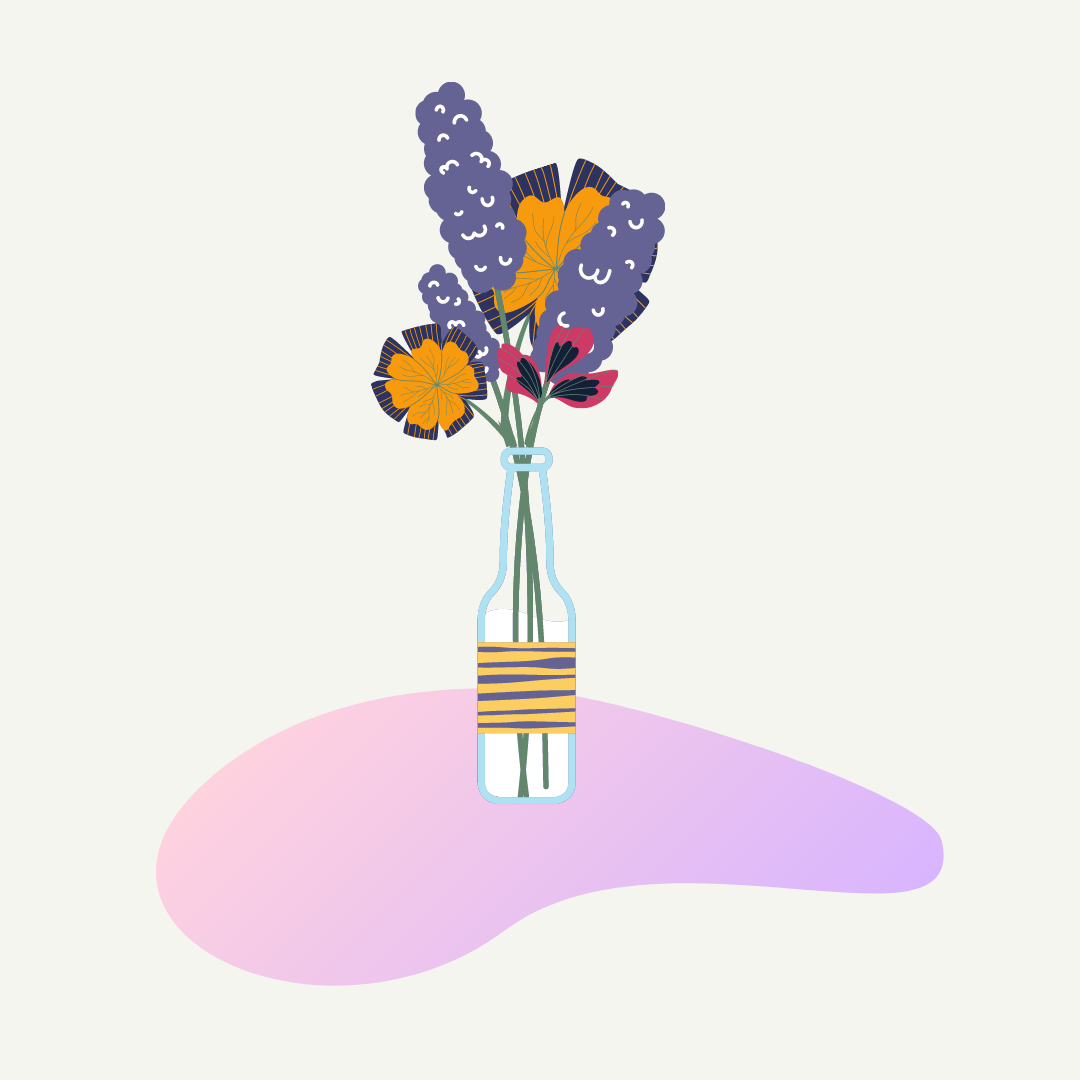
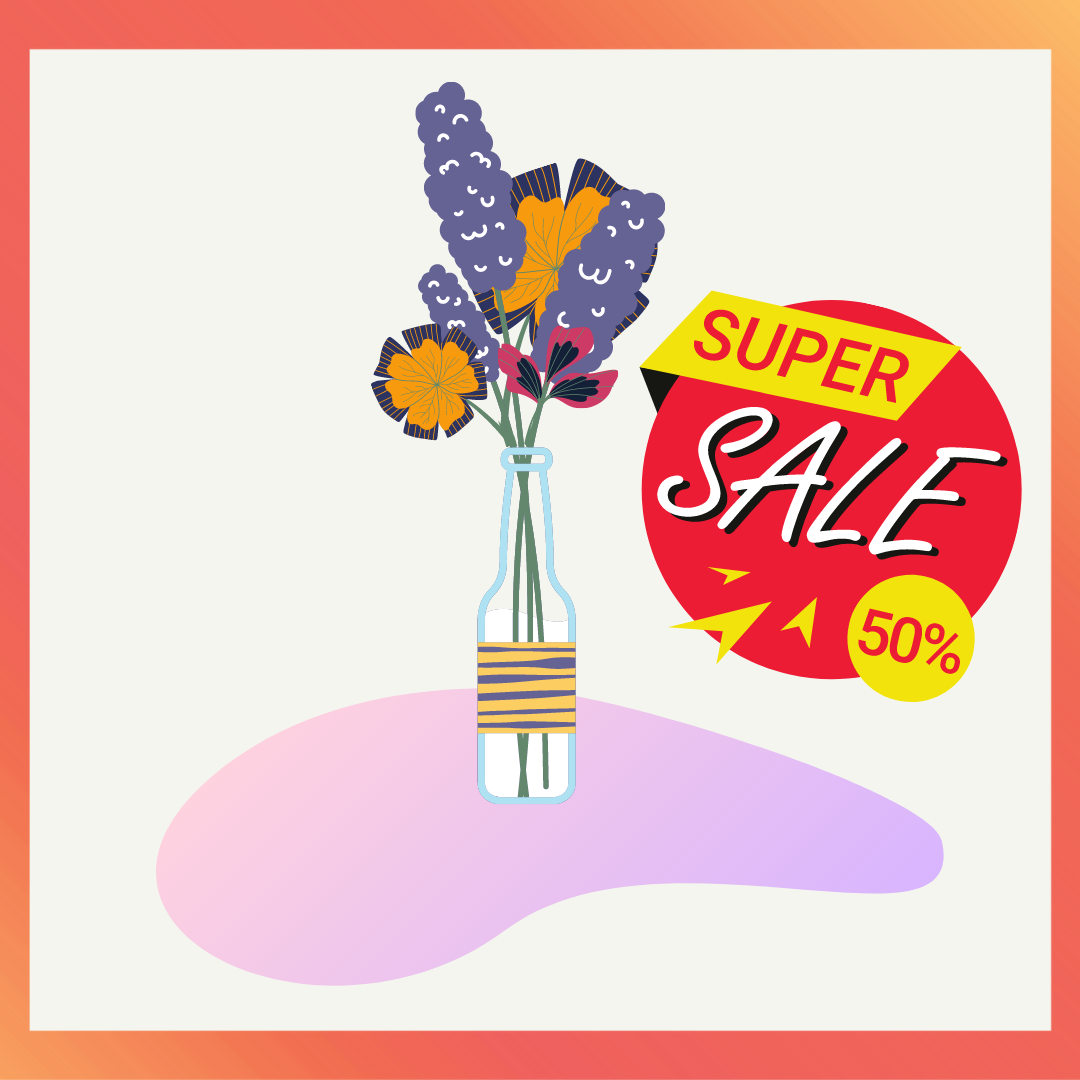
promocion

Changed region(s): [[0.0, 0.0, 1.0, 1.0]]

diff --git a/src/components/Header.jsx b/src/components/Header.jsx
@@ -9,14 +9,15 @@ function Header() {
       <div className="name">
         <h1>
           <span>Jardim funcional</span>
-          <br/>Quer saber como ter um jardim funcional?
+          <br/>VENHA APROVEITAR AS NOSSAS OFERTAS !!
         </h1>
         <p className="details">
-          Vamos te dar dicas de como ter um jardim prático, bonito e funcional.
+          Cadastre-se para ter acesso aos melhores descontos da nossa BLACK FRIDAY.
         </p>
-        <a href="#" className="cv-btn">
-          Download
-        </a>
+        <div className="contact-input">
+        <input type="email" placeholder="Escreve seu melhor e-mail"/>
+          <a href="#">Pegue seu Voucher</a>
+      </div>
       </div>
     </div>
   );

diff --git a/src/index.css b/src/index.css
@@ -93,10 +93,12 @@ nav .menu-btn,
 }
 .name span {
   color: #D63B77;
-  font-size: 52px;
+  font-size: 60px;
+
 }
 .name .details {
-  color: #969696;
+  color: #000000;
+  font-style: bold;
 }
 .name h1 {
   font-family: "Montserrat";

diff --git a/src/index.js b/src/index.js
@@ -4,6 +4,8 @@ import './index.css';
 import App from './App.js';
 
 
+
+
 ReactDOM.render(
   <>
     <App />
